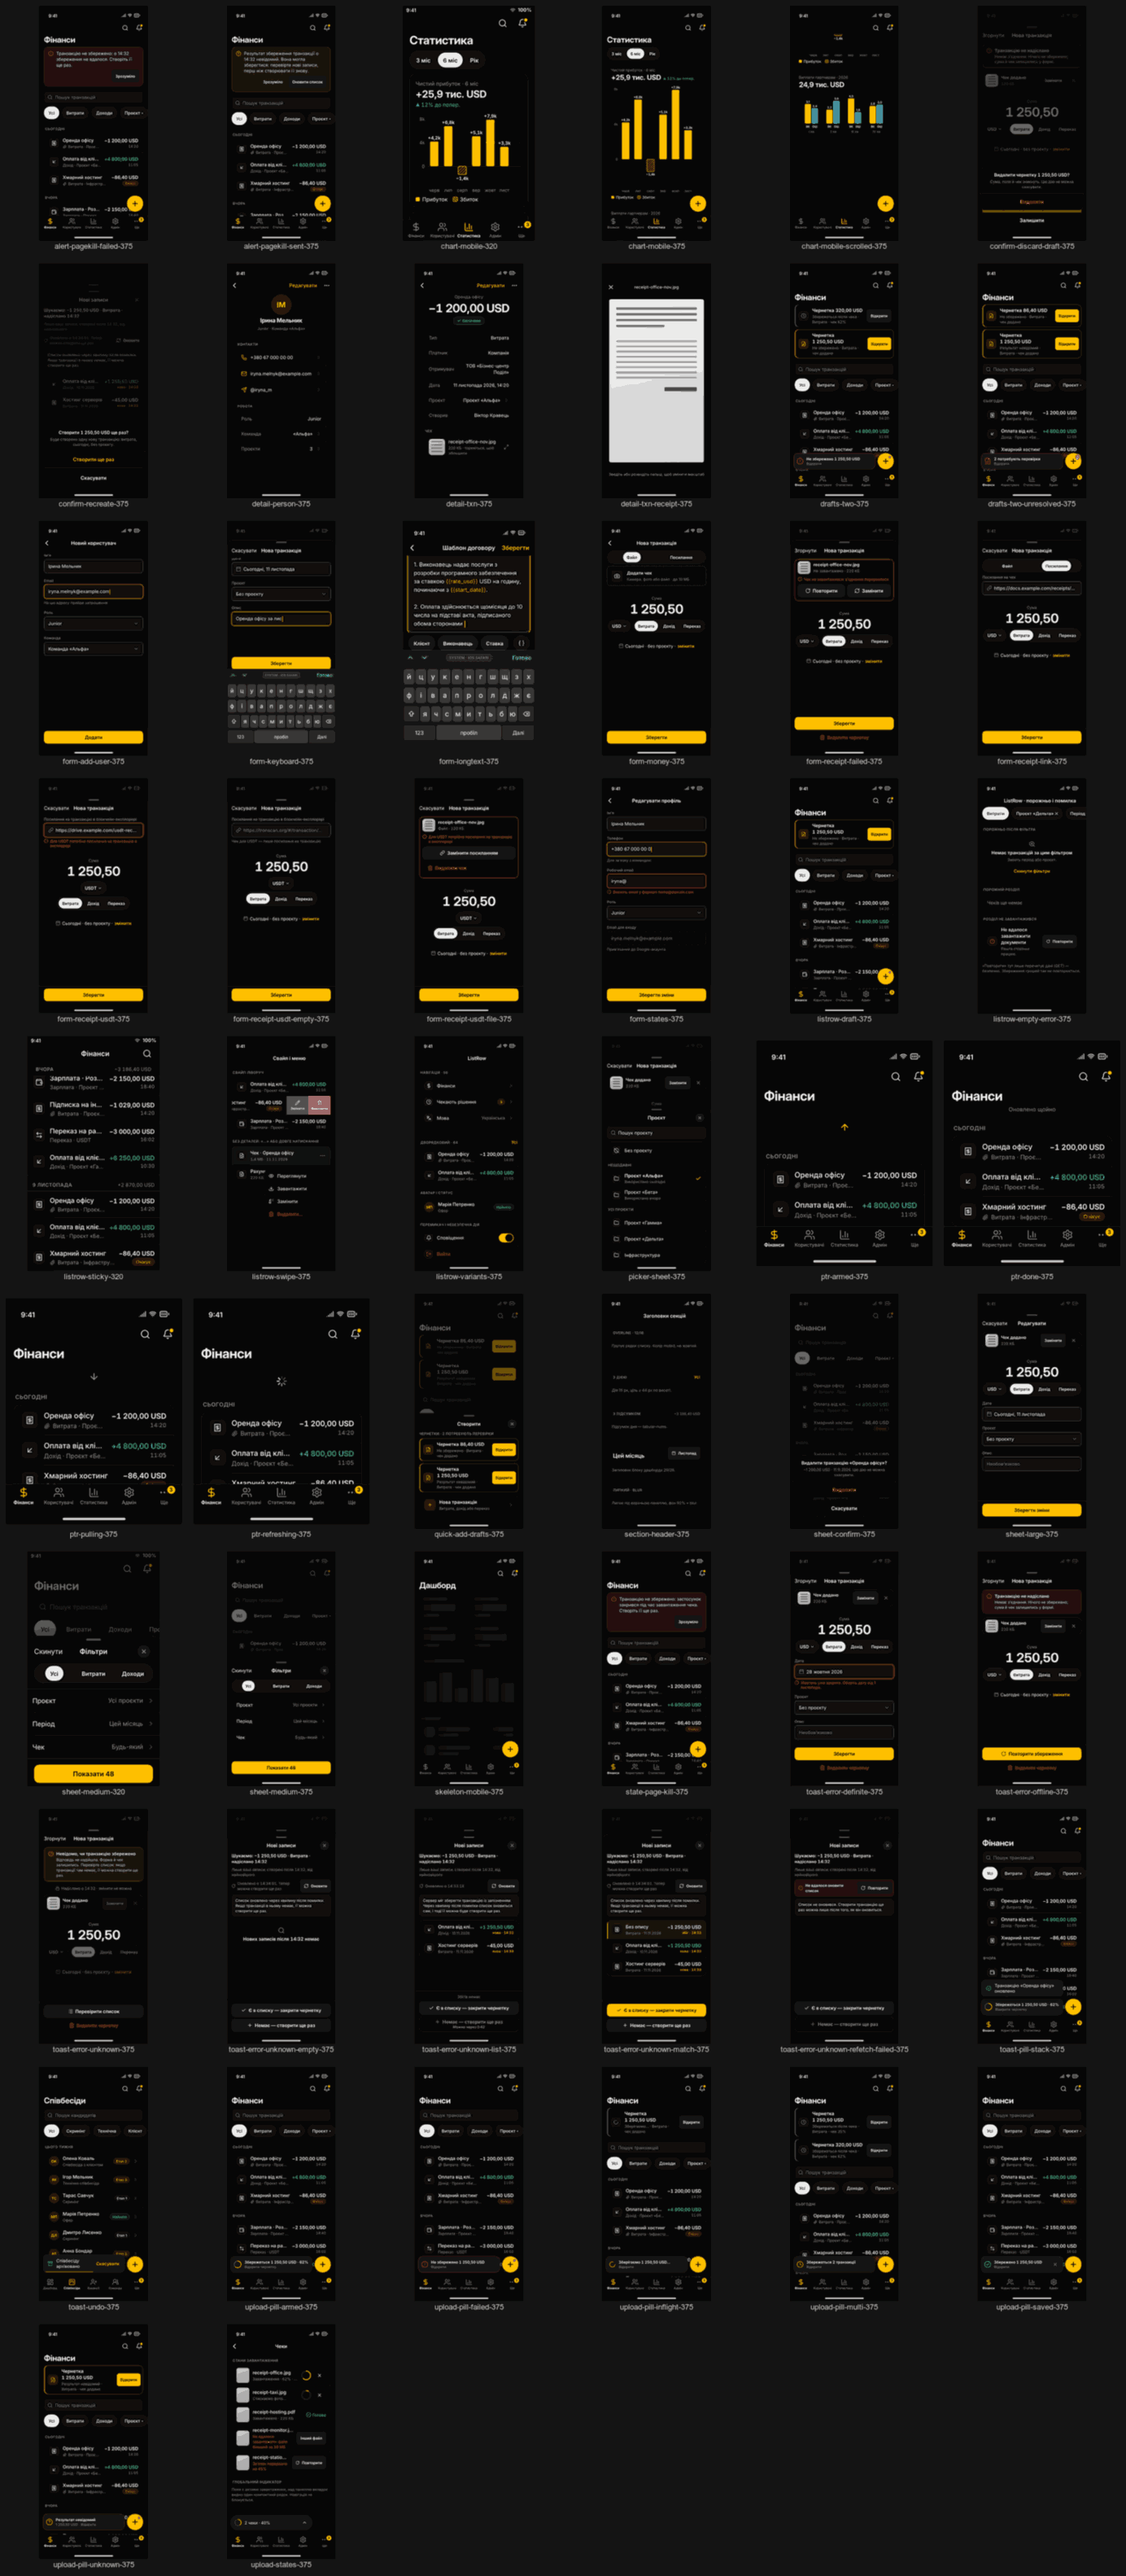
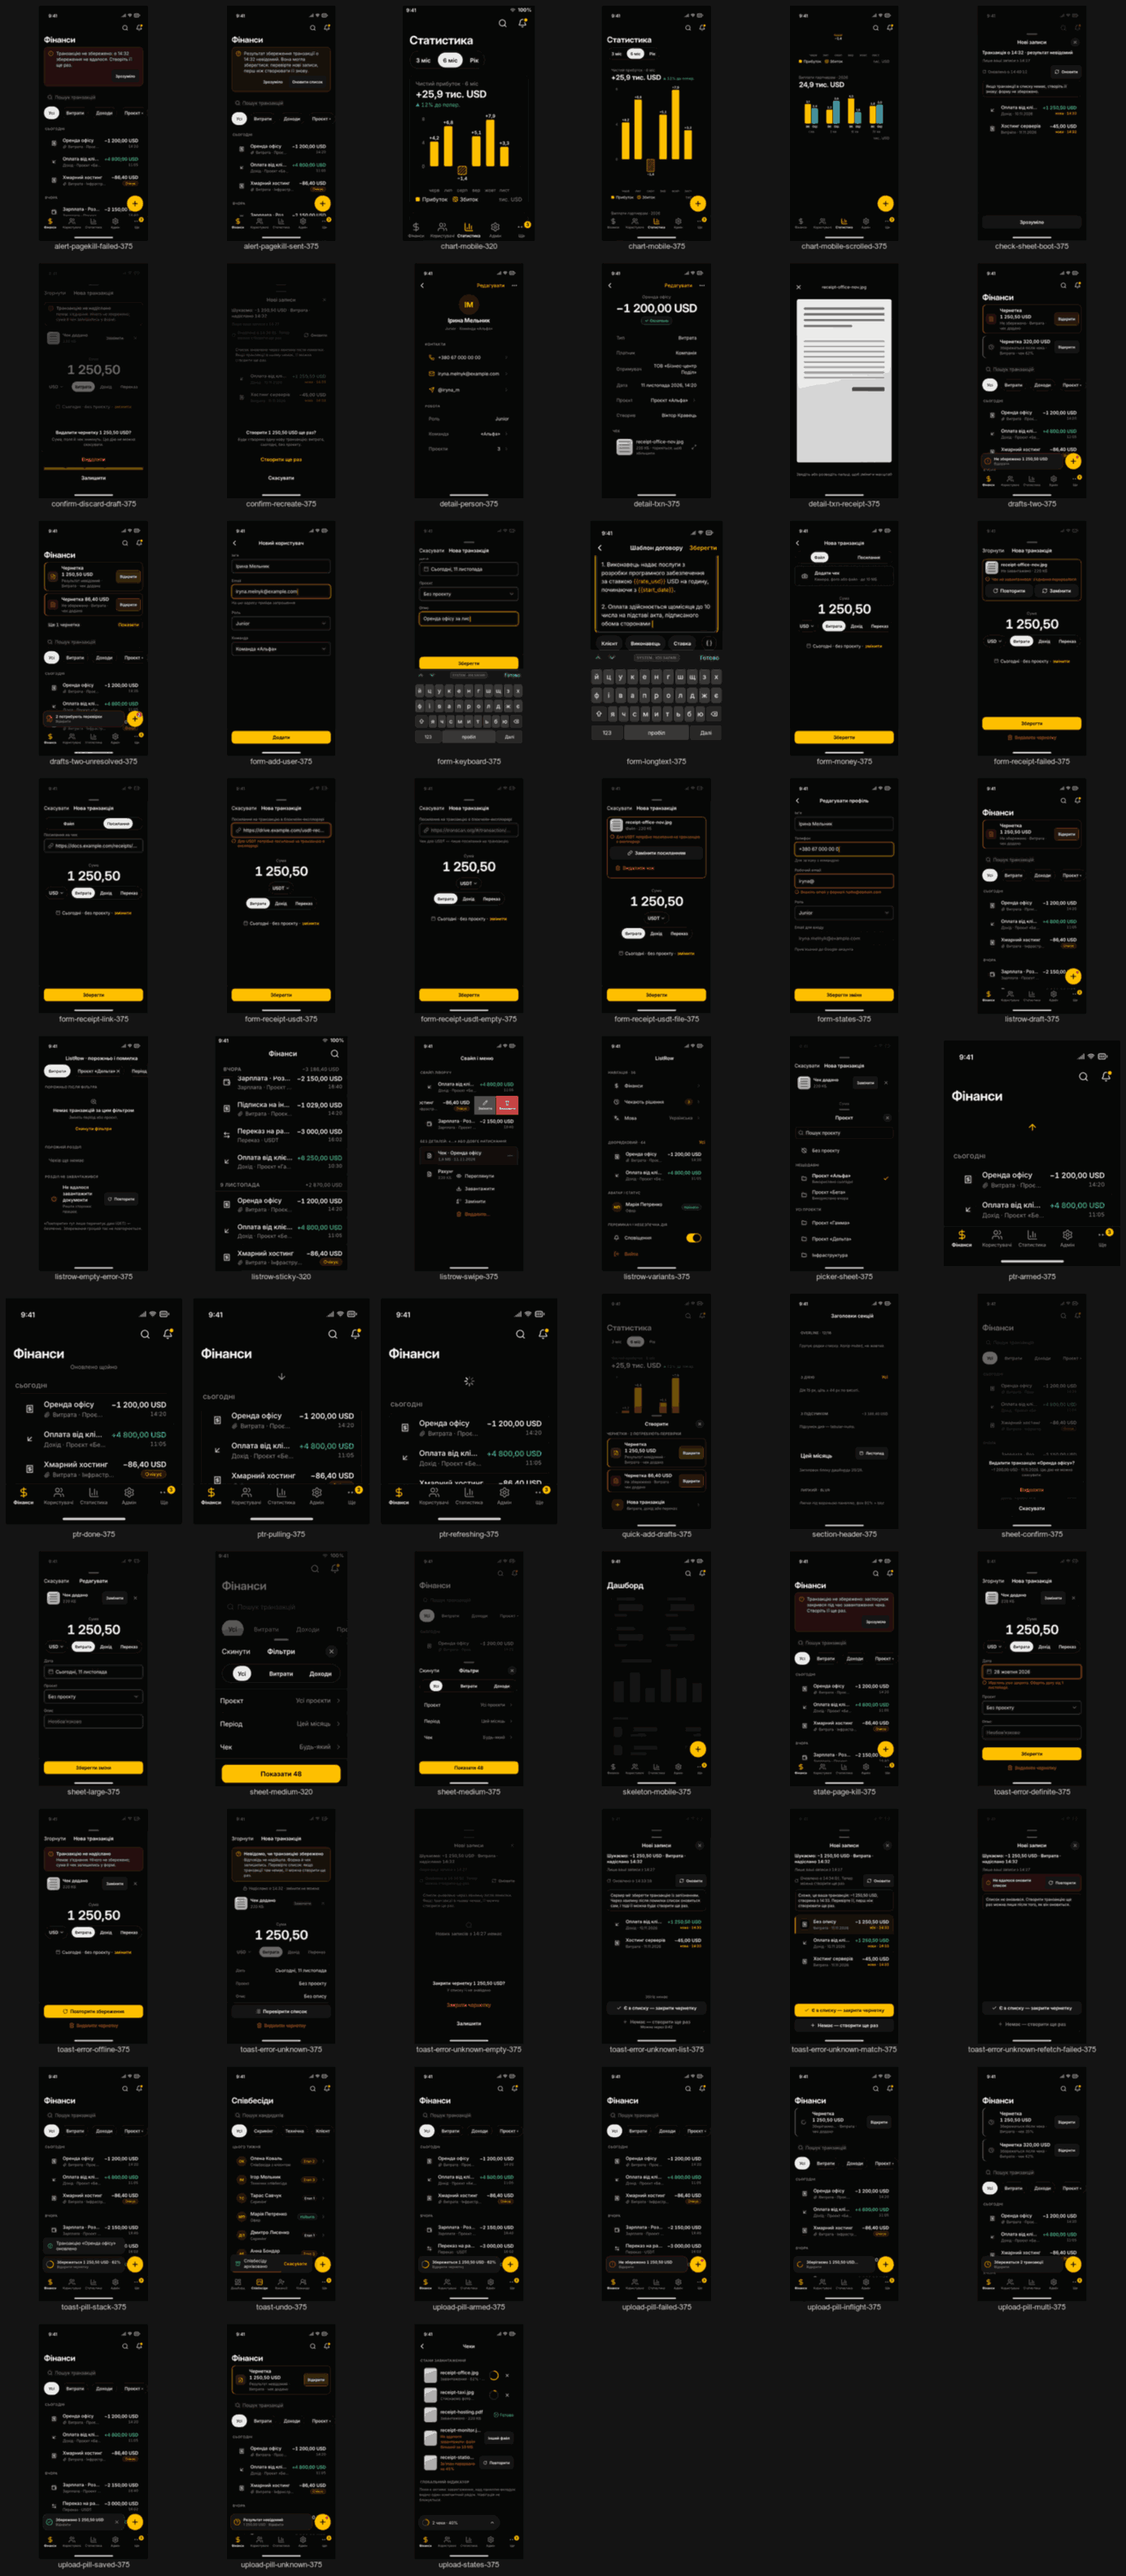
docs(design): durable failed drafts, skew-safe check sheet, quieter pinned rows (council R6)
Council R6 fix round 9: the failed marker lives as long as its draft; the
check sheet lists the user's rows created from t - 5 min; tonal pinned rows,
capped at two; direct FAB on Фінанси; chooser menu off the phone; pill padding;
boot check sheet; one-tap re-arm; chart units. Frames and the section 8 table
are regenerated.

ac_verified: n/a (docs)

diff --git a/docs/design/screens/_foundation/primitives-v2.md b/docs/design/screens/_foundation/primitives-v2.md
@@ -411,7 +411,7 @@ two armed «Збережеться 2 транзакції» / «Відкрити
 its own; `upload-pill-multi-375`); «+2 чеки» counts only uploads that belong to no draft; two or more
 failed or unknown «2 потребують перевірки» / «Відкрити», which opens Фінанси at the pinned rows, and the
 FAB dot carries the count (`drafts-two-unresolved-375`). A save that completes under a failed or
-unknown pill shows as a normal success toast stacked above it; the pill keeps its own state. Фінанси pins one row per unsaved draft, newest first
+unknown pill shows as a normal success toast stacked above it; the pill keeps its own state. Фінанси pins a row per unsaved draft by the slot precedence, at most two, the rest in «Ще N чернеток · Показати»
 (`drafts-two-375`: one failed and one armed; the failed one wins the pill). Without a money draft the
 slot holds the plain upload pill. **Toast + pill** (`toast-pill-stack-375`): the pill keeps the base slot (left 12,
 right inset 80, left of the FAB); a toast stacks 8 px above it; at most one toast at a time. A toast
@@ -455,14 +455,14 @@ instant, sheet 280 ms up / 150 ms down, desktop 150 ms crossfade, reduced motion
 
 ## 8. Frames (all PNG under `assets/primitives-v2/`)
 
-76 frames; phones and component crops render at 2×, full 768 / 1024 / 1440 screens and the storyboard at 1×. Every
+79 frames; phones and component crops render at 2×, full 768 / 1024 / 1440 screens and the storyboard at 1×. Every
 PNG is ≤ 400 KB.
 
 | Frame                                    | Viewport (CSS px) | PNG (px)    |  KB | Round            |
 | ---------------------------------------- | ----------------- | ----------- | --: | ---------------- |
 | `sheet-medium-375`                       | 375 × 812         | 750 × 1624  |  33 |                  |
 | `sheet-medium-320`                       | 320 × 568         | 640 × 1136  |  25 |                  |
-| `sheet-large-375`                        | 375 × 812         | 750 × 1624  |  32 | re-rendered (R5) |
+| `sheet-large-375`                        | 375 × 812         | 750 × 1624  |  32 |                  |
 | `sheet-confirm-375`                      | 375 × 812         | 750 × 1624  |  44 |                  |
 | `listrow-variants-375`                   | 375 × 812         | 750 × 1624  |  38 |                  |
 | `listrow-swipe-375`                      | 375 × 812         | 750 × 1624  |  40 |                  |
@@ -483,7 +483,7 @@ PNG is ≤ 400 KB.
 | `form-receipt-usdt-375`                  | 375 × 812         | 750 × 1624  |  35 |                  |
 | `form-receipt-usdt-empty-375`            | 375 × 812         | 750 × 1624  |  33 |                  |
 | `form-receipt-usdt-file-375`             | 375 × 812         | 750 × 1624  |  36 |                  |
-| `picker-sheet-375`                       | 375 × 812         | 750 × 1624  |  37 | re-rendered (R5) |
+| `picker-sheet-375`                       | 375 × 812         | 750 × 1624  |  37 |                  |
 | `form-longtext-375`                      | 375 × 667         | 750 × 1334  |  45 |                  |
 | `form-keyboard-375`                      | 375 × 812         | 750 × 1624  |  31 |                  |
 | `sheet-panel-768`                        | 768 × 1024        | 768 × 1024  |  42 |                  |
@@ -492,45 +492,48 @@ PNG is ≤ 400 KB.
 | `sheet-confirm-dialog-1024`              | 1024 × 768        | 1024 × 768  |  49 |                  |
 | `listrow-table-desktop`                  | 960 × 300         | 1920 × 600  |  32 |                  |
 | `toast-undo-375`                         | 375 × 812         | 750 × 1624  |  51 |                  |
-| `toast-undo-768`                         | 768 × 1024        | 768 × 1024  |  29 | re-rendered (R5) |
-| `toast-undo-1440`                        | 1440 × 900        | 1440 × 900  |  34 | re-rendered (R5) |
-| `toast-error-definite-375`               | 375 × 812         | 750 × 1624  |  38 | re-rendered (R5) |
-| `toast-error-unknown-375`                | 375 × 812         | 750 × 1624  |  42 | re-rendered (R5) |
-| `toast-error-unknown-list-375`           | 375 × 812         | 750 × 1624  |  49 | re-rendered (R5) |
-| `toast-error-unknown-match-375`          | 375 × 812         | 750 × 1624  |  52 | re-rendered (R5) |
-| `toast-error-unknown-empty-375`          | 375 × 812         | 750 × 1624  |  38 | re-rendered (R5) |
-| `toast-error-unknown-refetch-failed-375` | 375 × 812         | 750 × 1624  |  33 | new (R5)         |
-| `form-receipt-failed-375`                | 375 × 812         | 750 × 1624  |  36 | new (R5)         |
-| `toast-error-offline-375`                | 375 × 812         | 750 × 1624  |  37 | re-rendered (R5) |
+| `toast-undo-768`                         | 768 × 1024        | 768 × 1024  |  29 |                  |
+| `toast-undo-1440`                        | 1440 × 900        | 1440 × 900  |  34 |                  |
+| `toast-error-definite-375`               | 375 × 812         | 750 × 1624  |  38 |                  |
+| `toast-error-unknown-375`                | 375 × 812         | 750 × 1624  |  46 | re-rendered (R6) |
+| `toast-error-unknown-list-375`           | 375 × 812         | 750 × 1624  |  48 | re-rendered (R6) |
+| `toast-error-unknown-match-375`          | 375 × 812         | 750 × 1624  |  50 | re-rendered (R6) |
+| `toast-error-unknown-empty-375`          | 375 × 812         | 750 × 1624  |  36 | re-rendered (R6) |
+| `toast-error-unknown-refetch-failed-375` | 375 × 812         | 750 × 1624  |  31 | re-rendered (R6) |
+| `form-receipt-failed-375`                | 375 × 812         | 750 × 1624  |  36 |                  |
+| `toast-error-offline-375`                | 375 × 812         | 750 × 1624  |  37 |                  |
 | `upload-pill-armed-375`                  | 375 × 812         | 750 × 1624  |  58 |                  |
 | `upload-pill-saved-375`                  | 375 × 812         | 750 × 1624  |  57 |                  |
-| `upload-pill-failed-375`                 | 375 × 812         | 750 × 1624  |  57 | re-rendered (R5) |
-| `upload-pill-multi-375`                  | 375 × 812         | 750 × 1624  |  58 | re-rendered (R5) |
-| `upload-pill-inflight-375`               | 375 × 812         | 750 × 1624  |  54 | new (R5)         |
-| `upload-pill-unknown-375`                | 375 × 812         | 750 × 1624  |  55 | re-rendered (R5) |
-| `drafts-two-375`                         | 375 × 812         | 750 × 1624  |  58 | re-rendered (R5) |
-| `drafts-two-unresolved-375`              | 375 × 812         | 750 × 1624  |  57 | re-rendered (R5) |
-| `quick-add-drafts-375`                   | 375 × 812         | 750 × 1624  |  47 | new (R5)         |
+| `upload-pill-failed-375`                 | 375 × 812         | 750 × 1624  |  57 |                  |
+| `upload-pill-multi-375`                  | 375 × 812         | 750 × 1624  |  58 |                  |
+| `upload-pill-inflight-375`               | 375 × 812         | 750 × 1624  |  54 |                  |
+| `upload-pill-unknown-375`                | 375 × 812         | 750 × 1624  |  55 | re-rendered (R6) |
+| `drafts-two-375`                         | 375 × 812         | 750 × 1624  |  58 | re-rendered (R6) |
+| `drafts-two-unresolved-375`              | 375 × 812         | 750 × 1624  |  59 | re-rendered (R6) |
+| `quick-add-drafts-375`                   | 375 × 812         | 750 × 1624  |  41 | re-rendered (R6) |
 | `toast-pill-stack-375`                   | 375 × 812         | 750 × 1624  |  60 |                  |
 | `state-page-kill-375`                    | 375 × 812         | 750 × 1624  |  54 |                  |
-| `alert-pagekill-sent-375`                | 375 × 812         | 750 × 1624  |  57 | re-rendered (R5) |
-| `alert-pagekill-failed-375`              | 375 × 812         | 750 × 1624  |  54 | new (R5)         |
-| `confirm-recreate-375`                   | 375 × 812         | 750 × 1624  |  48 | re-rendered (R5) |
-| `confirm-discard-draft-375`              | 375 × 812         | 750 × 1624  |  38 | re-rendered (R5) |
-| `listrow-draft-375`                      | 375 × 812         | 750 × 1624  |  54 | re-rendered (R5) |
+| `alert-pagekill-sent-375`                | 375 × 812         | 750 × 1624  |  57 |                  |
+| `check-sheet-boot-375`                   | 375 × 812         | 750 × 1624  |  37 | new (R6)         |
+| `alert-pagekill-failed-375`              | 375 × 812         | 750 × 1624  |  54 |                  |
+| `confirm-recreate-375`                   | 375 × 812         | 750 × 1624  |  47 | re-rendered (R6) |
+| `confirm-discard-draft-375`              | 375 × 812         | 750 × 1624  |  38 |                  |
+| `listrow-draft-375`                      | 375 × 812         | 750 × 1624  |  54 | re-rendered (R6) |
 | `upload-states-375`                      | 375 × 812         | 750 × 1624  |  55 |                  |
-| `upload-pill-768`                        | 768 × 1024        | 768 × 1024  |  42 | re-rendered (R5) |
+| `upload-pill-768`                        | 768 × 1024        | 768 × 1024  |  42 |                  |
 | `upload-pill-1440`                       | 1440 × 900        | 1440 × 900  |  59 |                  |
-| `drafts-desktop-1440`                    | 1440 × 900        | 1440 × 900  |  63 | new (R5)         |
-| `check-dialog-1024`                      | 1024 × 768        | 1024 × 768  |  51 | new (R5)         |
+| `drafts-desktop-1440`                    | 1440 × 900        | 1440 × 900  |  61 | re-rendered (R6) |
+| `drafts-chooser-1440`                    | 1440 × 900        | 1440 × 900  |  64 | new (R6)         |
+| `drafts-chooser-768`                     | 768 × 1024        | 768 × 1024  |  47 | new (R6)         |
+| `check-dialog-1024`                      | 1024 × 768        | 1024 × 768  |  52 | re-rendered (R6) |
 | `skeleton-mobile-375`                    | 375 × 812         | 750 × 1624  |  24 |                  |
 | `skeleton-768`                           | 768 × 1024        | 768 × 1024  |  18 |                  |
 | `skeleton-1440`                          | 1440 × 900        | 1440 × 900  |  33 |                  |
 | `skeleton-table-desktop`                 | 960 × 420         | 1920 × 904  |  23 |                  |
-| `chart-mobile-375`                       | 375 × 812         | 750 × 1624  |  36 | re-rendered (R5) |
-| `chart-mobile-scrolled-375`              | 375 × 812         | 750 × 1624  |  24 | re-rendered (R5) |
-| `chart-mobile-320`                       | 320 × 568         | 640 × 1136  |  28 | re-rendered (R5) |
-| `chart-desktop`                          | 1200 × 420        | 2400 × 934  |  48 |                  |
+| `chart-mobile-375`                       | 375 × 812         | 750 × 1624  |  35 | re-rendered (R6) |
+| `chart-mobile-scrolled-375`              | 375 × 812         | 750 × 1624  |  25 | re-rendered (R6) |
+| `chart-mobile-320`                       | 320 × 568         | 640 × 1136  |  28 | re-rendered (R6) |
+| `chart-desktop`                          | 1200 × 420        | 2400 × 934  |  48 | re-rendered (R6) |
 | `transition-storyboard`                  | 900 × 1200        | 900 × 2158  |  82 |                  |
 | `ptr-armed-375`                          | 375 × 480         | 750 × 960   |  23 |                  |
 | `ptr-done-375`                           | 375 × 480         | 750 × 960   |  29 |                  |

diff --git a/docs/design/foundation.md b/docs/design/foundation.md
@@ -432,8 +432,8 @@ reference widths below. Mobile-first: the base is mobile, scale up with `sm` / `
     more read **«2 потребують перевірки» · «Відкрити»**, and a tap opens Фінанси scrolled to the pinned rows
     (`drafts-two-unresolved-375.png`). «+2 чеки» counts only uploads that belong to no draft. Without a
     draft the slot shows the plain upload indicator.
-  - **One pinned row per draft.** Фінанси pins one row for every draft that is not saved (armed, in
-    flight, failed, unknown), newest first, each with its state line and one 44 px primary «Відкрити»
+  - **Pinned rows.** Фінанси pins a row for every draft that is not saved (armed, in flight, failed,
+    unknown), ordered by the slot precedence, each with its state line and one 44 px tonal «Відкрити»
     (`drafts-two-375.png`: one failed and one armed). A lower state the pill does not show is never
     lost: its row is there. A pinned row is never a primary: its «Відкрити» is tonal (one primary per context, §7.5). The row icon and its 2 px leading bar are `--destructive` for a failed draft and `--warning` for an unknown one; armed and in-flight rows stay muted. **At most two pinned rows** show, unresolved first by the slot precedence; the rest collapse into one row «Ще N чернеток · Показати», which expands them in place (`drafts-two-unresolved-375`).
   - **«+» never blocks.** Armed and in-flight drafts change nothing: «+» opens a new form. With unresolved drafts (failed or unknown), **on Фінанси the FAB opens a new form directly**: the pinned rows, the pill and the FAB dot already show the drafts. Everywhere else «+» (the FAB on the other tabs, the quick-add action, the rail «+», the header «Нова транзакція» and `C`, on every page) opens the **chooser**. On a phone it is the quick-add sheet: the draft rows on top, each with its state line and «Відкрити», and «Нова транзакція» enabled under them (`primitives-v2/quick-add-drafts-375`). Off the phone it is a menu (`role="menu"`, the trigger `aria-haspopup="menu"`): the drafts above, «Нова транзакція» last with the initial focus, so `C` then Enter still creates; ↑ / ↓ move between the items, and Esc closes it and returns focus to the trigger (`primitives-v2/drafts-chooser-1440`, `drafts-chooser-768`). The FAB keeps its «+» and gains a red dot (with the count from two); its accessible name says the count: «Нова транзакція, 1 чернетка потребує уваги», «Нова транзакція, 2 чернетки потребують уваги»
